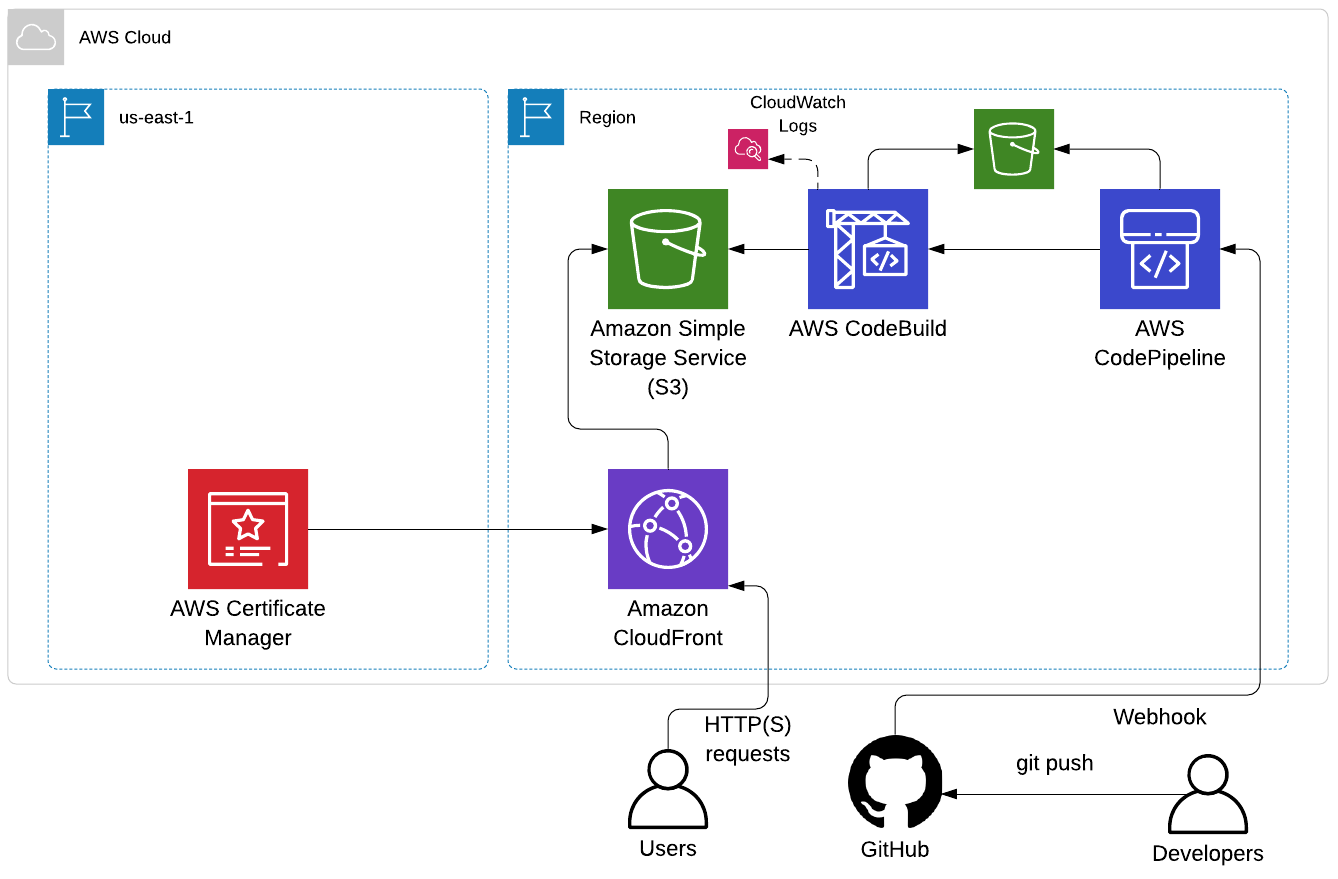
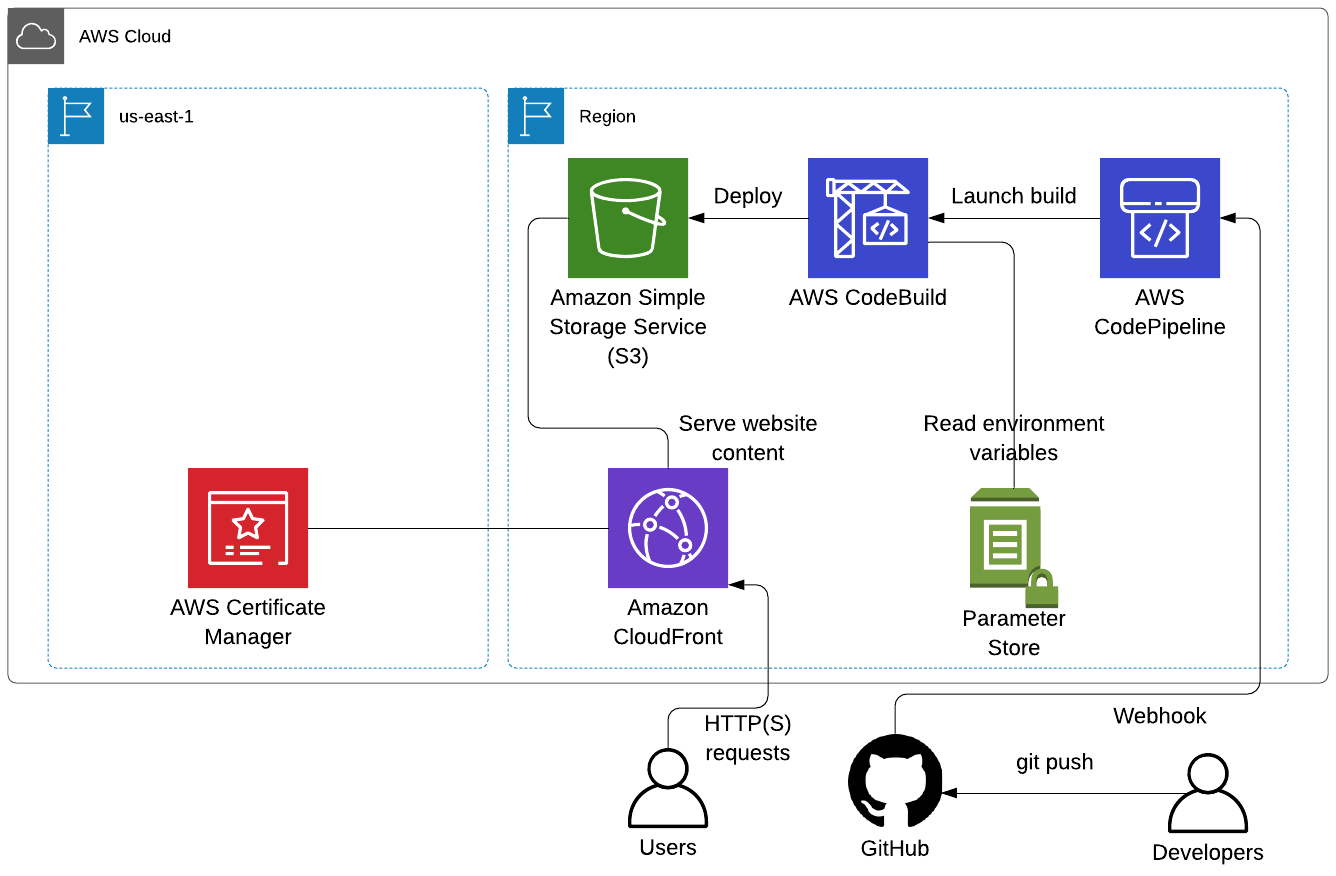
improve readme

diff --git a/README.md b/README.md
@@ -5,7 +5,7 @@
 <h1 align="center">AWS Static Website</h1>
 
 <h4 align="center">
-  <a href="https://scaffold.sh/docs">Documentation</a> |
+  <a href="https://scaffold.sh/docs/infrastructures/aws/serverless-docker">Documentation</a> |
   <a href="https://scaffold.sh">Website</a> |
   <a href="https://medium.com/scaffold">Blog</a> |
   <a href="https://twitter.com/scaffold_sh">Twitter</a> |
@@ -35,6 +35,8 @@ Given that the S3 website endpoints do not support HTTPS, this infrastructure us
 
 To use an ACM certificate with Amazon CloudFront, the certificate [must be requested](https://docs.aws.amazon.com/acm/latest/userguide/acm-regions.html) in the US East (N. Virginia) region.
 
+This infrastructure also uses **[SSM Parameters Store](https://docs.aws.amazon.com/systems-manager/latest/userguide/systems-manager-parameter-store.html)** to store your build environment variables.
+
 ![](/assets/schema.png)
 
 ### Requirements
@@ -55,8 +57,8 @@ To use an ACM certificate with Amazon CloudFront, the certificate [must be reque
     </thead>
     <tbody>
         <tr>
-            <td><b><a href="https://docs.aws.amazon.com/AmazonS3/latest/dev/Introduction.html">S3</a></b> <sup>(two buckets)</sup><br/>S3 will be used to store your website source code and your pipeline artifacts.</td>
-            <td><a href="https://github.com/scaffold-sh/aws-static-website/blob/master/src/lib/constructs/staticWebsite/bucket.ts">src/lib/constructs/staticWebsite/bucket.ts</a><br /><a href="https://github.com/scaffold-sh/aws-static-website/blob/master/src/lib/constructs/continuousDeployment/index.ts">src/lib/constructs/continuousDeployment/index.ts</a></td>
+            <td><b><a href="https://docs.aws.amazon.com/AmazonS3/latest/dev/Introduction.html">S3</a></b> <sup>(one bucket)</sup><br/>S3 will be used to store your website source code.</td>
+            <td><a href="https://github.com/scaffold-sh/aws-static-website/blob/master/src/lib/constructs/staticWebsite/bucket.ts">src/lib/constructs/staticWebsite/bucket.ts</a></td>
           <td><b>Usage</b></td>
         </tr>
         <tr>
@@ -78,6 +80,11 @@ To use an ACM certificate with Amazon CloudFront, the certificate [must be reque
             <td><b><a href="https://docs.aws.amazon.com/acm/latest/userguide/acm-overview.html">ACM</a></b> <sup>(one certificate)</sup><br />ACM will be used to manage the SSL certificate of your website.</td>
             <td><a href="https://github.com/scaffold-sh/aws-static-website/blob/master/src/lib/constructs/staticWebsite/ssl.ts">src/lib/constructs/staticWebsite/ssl.ts</a></td>
           <td><b>Free</b></td>
+        </tr>
+        <tr>
+            <td><b><a href="https://docs.aws.amazon.com/systems-manager/latest/userguide/systems-manager-parameter-store.html">SSM</a></b> <sup>(one parameter store)</sup><br />SSM Parameter Store will be used to store the environment variables of your builds.</td>
+            <td><a href="https://github.com/scaffold-sh/aws-static-website/blob/master/src/lib/constructs/staticWebsite/environmentVariables.ts">src/lib/constructs/computing/environmentVariables.ts</a></td>
+          <td><b>Usage</b></td>
         </tr>
     </tbody>
 </table>
@@ -104,9 +111,17 @@ These environment variables will be **automatically** configured each time you c
 
 <tr>
 
-<th scope="row">ENABLE_HTTPS</th>
+<th scope="row">BUILD_COMMAND</th>
 
-<td>We need to wait for the ACM certificate to be "issued" to enable HTTPS. See the "<a href="https://scaffold.sh/docs/infrastructures/aws/static-website/after-install">after install</a>" section to learn more.</td>
+<td>The command that needs to be run to build your website (e.g. npm i && npm run build) (optional).</td>
+
+</tr>
+
+<tr>
+
+<th scope="row">BUILD_OUTPUT_DIR</th>
+
+<td>The directory where the build command output your website (e.g. build/) (optional).</td>
 
 </tr>
 
@@ -120,33 +135,9 @@ These environment variables will be **automatically** configured each time you c
 
 <tr>
 
-<th scope="row">BUILD_COMMAND</th>
+<th scope="row">ENABLE_HTTPS</th>
 
-<td>The command that needs to be run to build your website (e.g. npm i && npm run build) (optional)</td>
-
-</tr>
-
-<tr>
-
-<th scope="row">BUILD_OUTPUT_DIR</th>
-
-<td>The directory where the build command output your website (e.g. build/) (optional)</td>
-
-</tr>
-
-<tr>
-
-<th scope="row">GITHUB_REPO_OWNER</th>
-
-<td>The owner of your GitHub repository. Can be a regular user or an organization.</td>
-
-</tr>
-
-<tr>
-
-<th scope="row">GITHUB_REPO</th>
-
-<td>The GitHub repository that contains your source code.</td>
+<td>We need to wait for the ACM certificate to be "issued" to enable HTTPS. See the "<a href="https://scaffold.sh/docs/infrastructures/aws/static-website/after-install">after install</a>" section to learn more.</td>
 
 </tr>
 
@@ -163,6 +154,22 @@ These environment variables will be **automatically** configured each time you c
 <th scope="row">GITHUB_OAUTH_TOKEN</th>
 
 <td>The GitHub OAuth token that will be used by CodePipeline to pull your source code from your repository.</td>
+
+</tr>
+
+<tr>
+
+<th scope="row">GITHUB_REPO</th>
+
+<td>The GitHub repository that contains your source code.</td>
+
+</tr>
+
+<tr>
+
+<th scope="row">GITHUB_REPO_OWNER</th>
+
+<td>The owner of your GitHub repository. Can be a regular user or an organization.</td>
 
 </tr>
 
@@ -198,14 +205,6 @@ These environment variables will be **automatically** configured each time you c
 
 <tr>
 
-<th scope="row">SCAFFOLD_RESOURCE_NAMES_PREFIX</th>
-
-<td>An unique custom prefix used to avoid name colision with existing resources.</td>
-
-</tr>
-
-<tr>
-
 <th scope="row">SCAFFOLD_AWS_PROFILE</th>
 
 <td>The AWS named profile used to create your infrastructure.</td>
@@ -230,6 +229,14 @@ These environment variables will be **automatically** configured each time you c
 
 <tr>
 
+<th scope="row">SCAFFOLD_AWS_S3_BACKEND_DYNAMODB_TABLE</th>
+
+<td>The AWS DynamoDB table that will be used to store the Terraform state locks.</td>
+
+</tr>
+
+<tr>
+
 <th scope="row">SCAFFOLD_AWS_S3_BACKEND_KEY</th>
 
 <td>The S3 bucket key under which your Terraform state will be saved.</td>
@@ -238,9 +245,9 @@ These environment variables will be **automatically** configured each time you c
 
 <tr>
 
-<th scope="row">SCAFFOLD_AWS_S3_BACKEND_DYNAMODB_TABLE</th>
+<th scope="row">SCAFFOLD_RESOURCE_NAMES_PREFIX</th>
 
-<td>The AWS DynamoDB table that will be used to store the Terraform state locks.</td>
+<td>An unique custom prefix used to avoid name colision with existing resources.</td>
 
 </tr>
 
@@ -250,19 +257,17 @@ These environment variables will be **automatically** configured each time you c
 
 ## After install
 
-### How do I set up my domain name and HTTPS?
+**CloudFront will display a placeholder index file until the end of the first deployment.**
 
-This infrastructure exports two Terraform outputs: `ssl_validation_dns_records` and `website_url`
+This infrastructure exports three Terraform outputs: `cloudfront_distribution_uri`, `pipeline_execution_details_url` and `ssl_validation_dns_records`.
 
-The `ssl_validation_dns_records` output value contains the DNS records that you need to set in order to validate your ACM certificate.
+The `cloudfront_distribution_uri` output value contains the URI of your CloudFront distribution. You could use it to access your website while your DNS are propagating.
 
-Once set, you will need to [wait for the status](https://console.aws.amazon.com/acm/home?region=us-east-1#/) of your certificate to switch from "pending" to "issued" to use it with CloudFront.
+The `pipeline_execution_details_url` output values contains the URL of your pipeline executions details.
 
-You could then set the `ENABLE_HTTPS` environment variable to "true" in your local env file and run the `scaffold apply` command to update your infrastructure.
+The `ssl_validation_dns_records` output value contains the DNS records that you need to set in order to validate your ACM certificate (see below).
 
-If you want to automate this process, you could use AWS Route 53 as your domain host then use the `aws_route53_record` and `aws_acm_certificate_validation` resources to wait for certificate validation. See the [Terraform documentation](https://registry.terraform.io/providers/hashicorp/aws/latest/docs/resources/acm_certificate_validation) to learn more.
-
-The `website_url` output value contains the URL of your CloudFront distribution. You could use it to access your website while waiting for DNS to propagate.
+### How do I set up my domain name?
 
 The way you will set up your domain name will vary according to the presence or absence of a subdomain.
 
@@ -270,91 +275,70 @@ If your domain name doesn't have any subdomains, you will need to add two DNS re
 
 - **Name:** <empty> or @
 - **Type:** ALIASE, ANAME or CNAME
-- **Value:** the URL of your CloudFront distribution
+- **Value:** `cloudfront_distribution_uri`
 
 <p></p>
 
 - **Name:** www
 - **Type:** CNAME
-- **Value:** the URL of your CloudFront distribution
+- **Value:** `cloudfront_distribution_uri`
 
-If your domain name has a subdomain, you will need to add a CNAME record:
+If your domain name has a subdomain, you will need to add one CNAME record:
 
 - **Name:** subdomain
 - **Type:** CNAME
-- **Value:** the URL of your CloudFront distribution
+- **Value:** `cloudfront_distribution_uri`
 
-### How do I customize the build steps of my website?
+### How do I set up HTTPS?
 
-[CodeBuild uses a buildspec.yml file](https://docs.aws.amazon.com/codebuild/latest/userguide/build-spec-ref.html) to describe all the build steps that your website requires.
+The `ssl_validation_dns_records` output value contains the DNS records that you need to set in order to validate your ACM certificate.
 
-This file is located in the `templates` directory at the root of your infrastructure:
+Once set, you will need to [wait for the status](https://console.aws.amazon.com/acm/home?region=us-east-1#/) of your certificate to switch from "pending" to "issued" to use it with your application load balancer.
+
+You could then set the `ENABLE_HTTPS` environment variable to "true" in your local env file and run the `scaffold apply` command to update your infrastructure.
+
+If you want to automate this process, you could use AWS Route 53 as your domain host then use the `aws_route53_record` and `aws_acm_certificate_validation` resources to wait for certificate validation. See the [Terraform documentation](https://registry.terraform.io/providers/hashicorp/aws/latest/docs/resources/acm_certificate_validation) to learn more.
+
+### How do I customize the build stage of my pipeline?
+
+[CodeBuild uses a YAML file](https://docs.aws.amazon.com/codebuild/latest/userguide/build-spec-ref.html) to describe all the steps that a stage requires. This file is located in the <kbd>templates</kbd> directory at the root of your infrastructure:
+
+```env
+# ./templates                                  
+buildspec.yml
+```
+
+You could update this file directly to customize your pipeline build stage.
+
+### How do I add environment variables to the build stage?
+
+To add an environment variable to the build stage all you have to do is to add an environment variable that starts with `BUILD_` to your infrastructure code.
+
+For example, let's say that you want to add a `TOKEN` variable to your build. You will first add it to your `.env` file:
+
+```env
+# .env
+BUILD_TOKEN=
+```
+
+Then, given that this value is secret you choose to define it in your local env file:
+
+```env
+# .env.{environment}.local
+BUILD_TOKEN=MY_SECRET_TOKEN
+```
+
+One done, you could access your environment variables in all your buildspec file:
 
 ```yaml
-# ./templates/buildspec.yml
-version: 0.2
+# templates/buildspec.yml
 
-env:
-  variables:
-    AWS_S3_WEBSITE_BUCKET: ""
-    AWS_CLOUDFRONT_DISTRIB_ID: ""
-    BUILD_COMMAND: ""
-    BUILD_OUTPUT: ""
+version: 0.2
 
 phases:
   pre_build:
     commands:
-      - echo "No pre build commands"
-  build:
-    commands:
-      - eval $BUILD_COMMAND
-  post_build:
-    commands:
-      # Update your website S3 bucket with modified files
-      - aws s3 sync --delete $BUILD_OUTPUT s3://$AWS_S3_WEBSITE_BUCKET
-      # Invalidate CloudFront cache to serve new files
-      - aws cloudfront create-invalidation --distribution-id $AWS_CLOUDFRONT_DISTRIB_ID --paths '/*'
+      - echo $TOKEN
 ```
 
-And customized in the build construct:
-
-
-```typescript
-// ./src/lib/constructs/continuousDeployment/build.ts
-
-// ...
-
-const buildspec = readFileSync(resolve(__dirname, "..", "..", "..", "..", "templates", "buildspec.yml")).toString()
-const parsedBuildSpec = YAML.parse(buildspec)
-
-parsedBuildSpec.env.variables.AWS_S3_WEBSITE_BUCKET = props.websiteS3Bucket.bucket
-parsedBuildSpec.env.variables.AWS_CLOUDFRONT_DISTRIB_ID = Token.asString(props.cloudfrontDistrib.id)
-
-parsedBuildSpec.env.variables.BUILD_COMMAND = props.buildCommand
-parsedBuildSpec.env.variables.BUILD_OUTPUT = props.buildOutput
-```
-
-You could add YAML code directly in the buildspec file or customize it using TS code. It's up to you.
-
-### How do I move the buildspec file from the templates directory to my repository?
-
-If you want to move the buildspec file into your repository, you need to update the `buildspec` property of your build project with the path of the file relative to the root of your repository:
-
-```typescript
-// ./src/lib/constructs/continuousDeployment/build.ts
-
-this.project = new CodebuildProject(this, "build_project", {
-  // ...
-
-  source: [{
-    // If you have a 'buildspec.yml' file 
-    // at the root of your repository.
-    buildspec: "buildspec.yml",
-    type: "CODEPIPELINE"
-  }],
-
-  // ...
-})
-```
-
-You could also remove the associated `BUILD_COMMAND` and `BUILD_OUTPUT_DIR` environment variables as well as the TS code that customize the buildspec file.
+Remember to run the `scaffold apply` command each time you update your infrastructure code.
